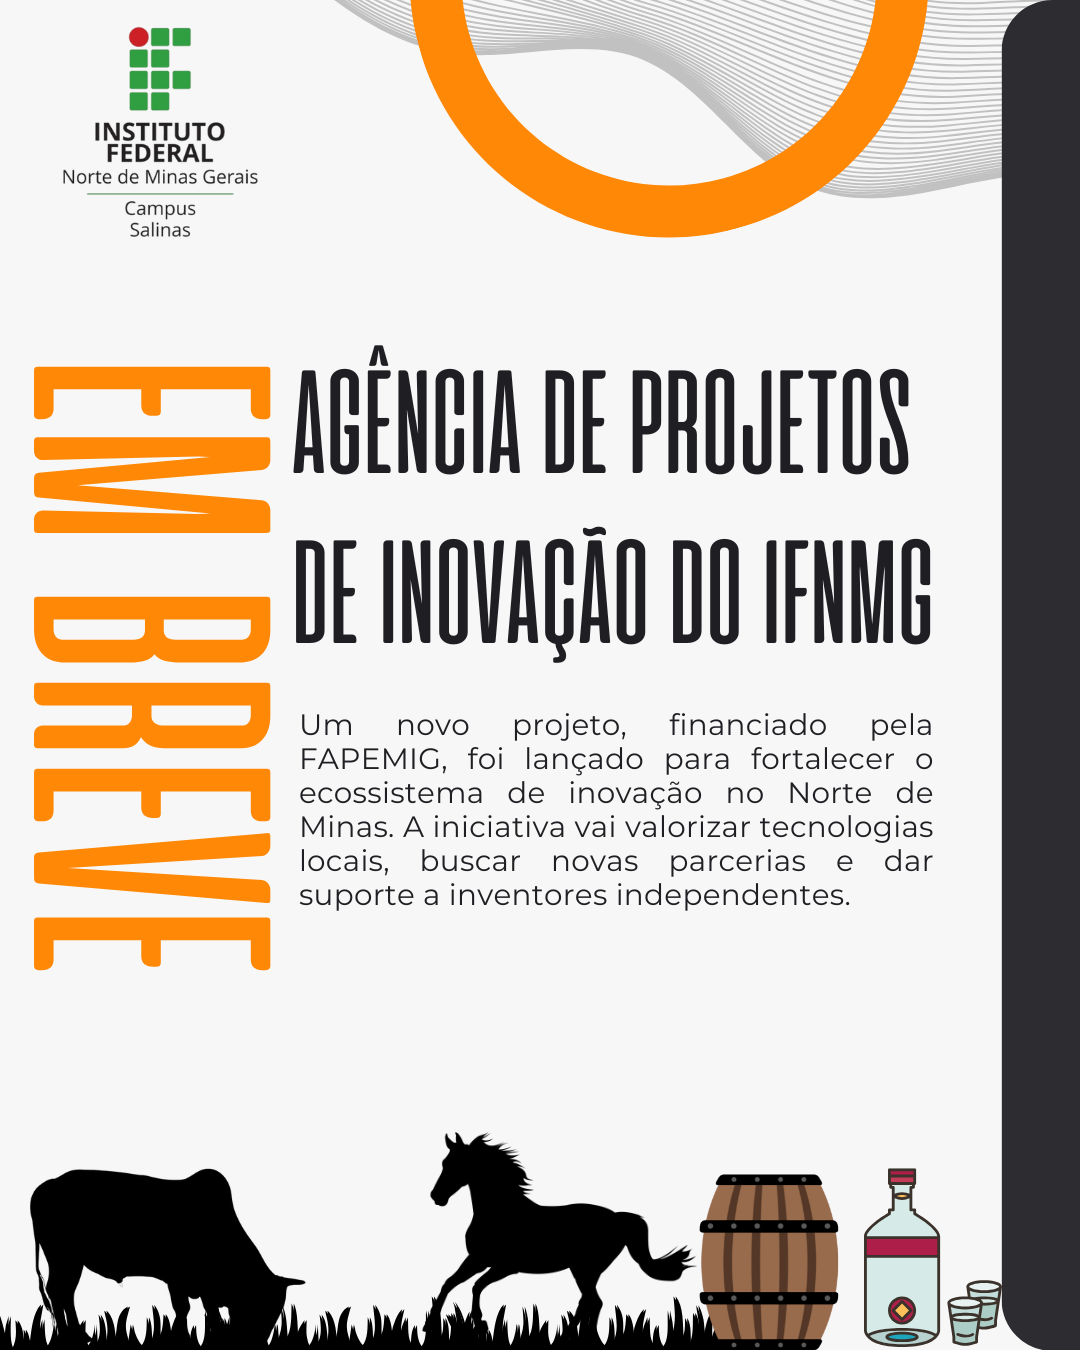
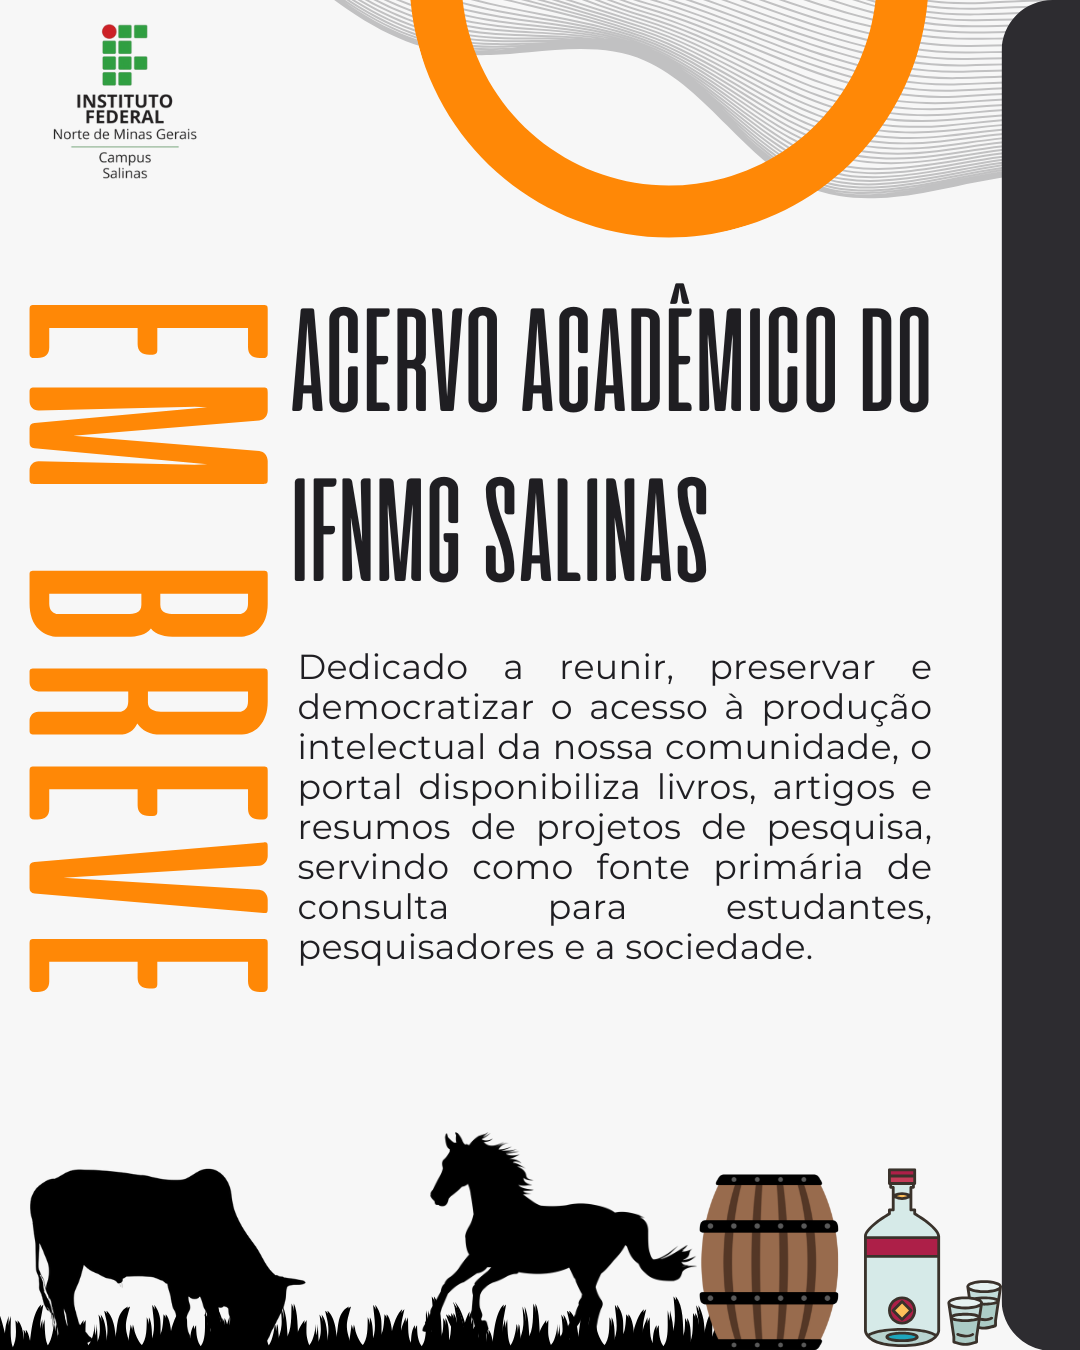
a

Changed region(s): [[0.0306, 0.2178, 0.8861, 0.7467], [0.0611, 0.0, 0.2444, 0.1867]]

diff --git a/src/public/index.html b/src/public/index.html
@@ -4,7 +4,7 @@
 <head>
     <meta charset="UTF-8" />
     <link rel="icon" href="images/tl.webp" type="image/png">
-    <title>Projetos de Pesquisa do IFNMG Salinas</title>
+    <title>Acervo Acadêmico do IFNMG Salinas </title>
     <link rel="stylesheet" href="css/style.css">
     <script src="https://kit.fontawesome.com/915b45d802.js" crossorigin="anonymous"></script>
     <script src="https://cdn.jsdelivr.net/npm/chart.js"></script>
@@ -41,7 +41,7 @@
     <div class="container">
         <div class="sobre-caixa">
             <div class="header-text">
-                <h1>Olá, <span>Bem vindo ao portifolio</span></h1>
+                <h1>Olá, <span>Bem vindo ao Acervo Digital</span></h1>
             </div>
             <div class="row">
                 <div class="about-col-1">
@@ -53,19 +53,17 @@
                     <h1>Objetivo do Projeto "Agência de Projetos de Inovação do IFNMG"</h1>
 
                     <p>
-                        O principal objetivo do projeto, conforme detalhado no Edital Nº 587, é fortalecer o
-                        ecossistema
-                        de inovação na área de abrangência do Instituto Federal do Norte de Minas Gerais (IFNMG) por
-                        meio do desenvolvimento de sua Agência de Projetos de Inovação.
+                        O principal objetivo do portal é centralizar, preservar e democratizar o acesso à produção
+                        intelectual e científica desenvolvida no âmbito do IFNMG - Campus Salinas, atuando como o
+                        principal instrumento de transparência e difusão do conhecimento da instituição.
                         </br>
-                        Ele está estruturado em cinco pilares fundamentais:
-                    </p>
+                        A plataforma está estruturada em quatro eixos fundamentais de atuação: </p>
 
                     <ul>
-                        <li>Valoração de Tecnologia</li>
-                        <li>Criação de Hubs de Inovação</li>
-                        <li>Agenciamento de Tecnologias e Competências para prospecção de parcerias</li>
-                        <li>Apoio ao Inventor Independente</li>
+                        <li>Acervo Bibliográfico Digital</li>
+                        <li>Acesso rapido a produção científica</li>
+                        <li>Banco de Projetos de Pesquisa</li>
+                        <li>Vizualização de Dados</li>
                     </ul>
                 </div>
             </div>
